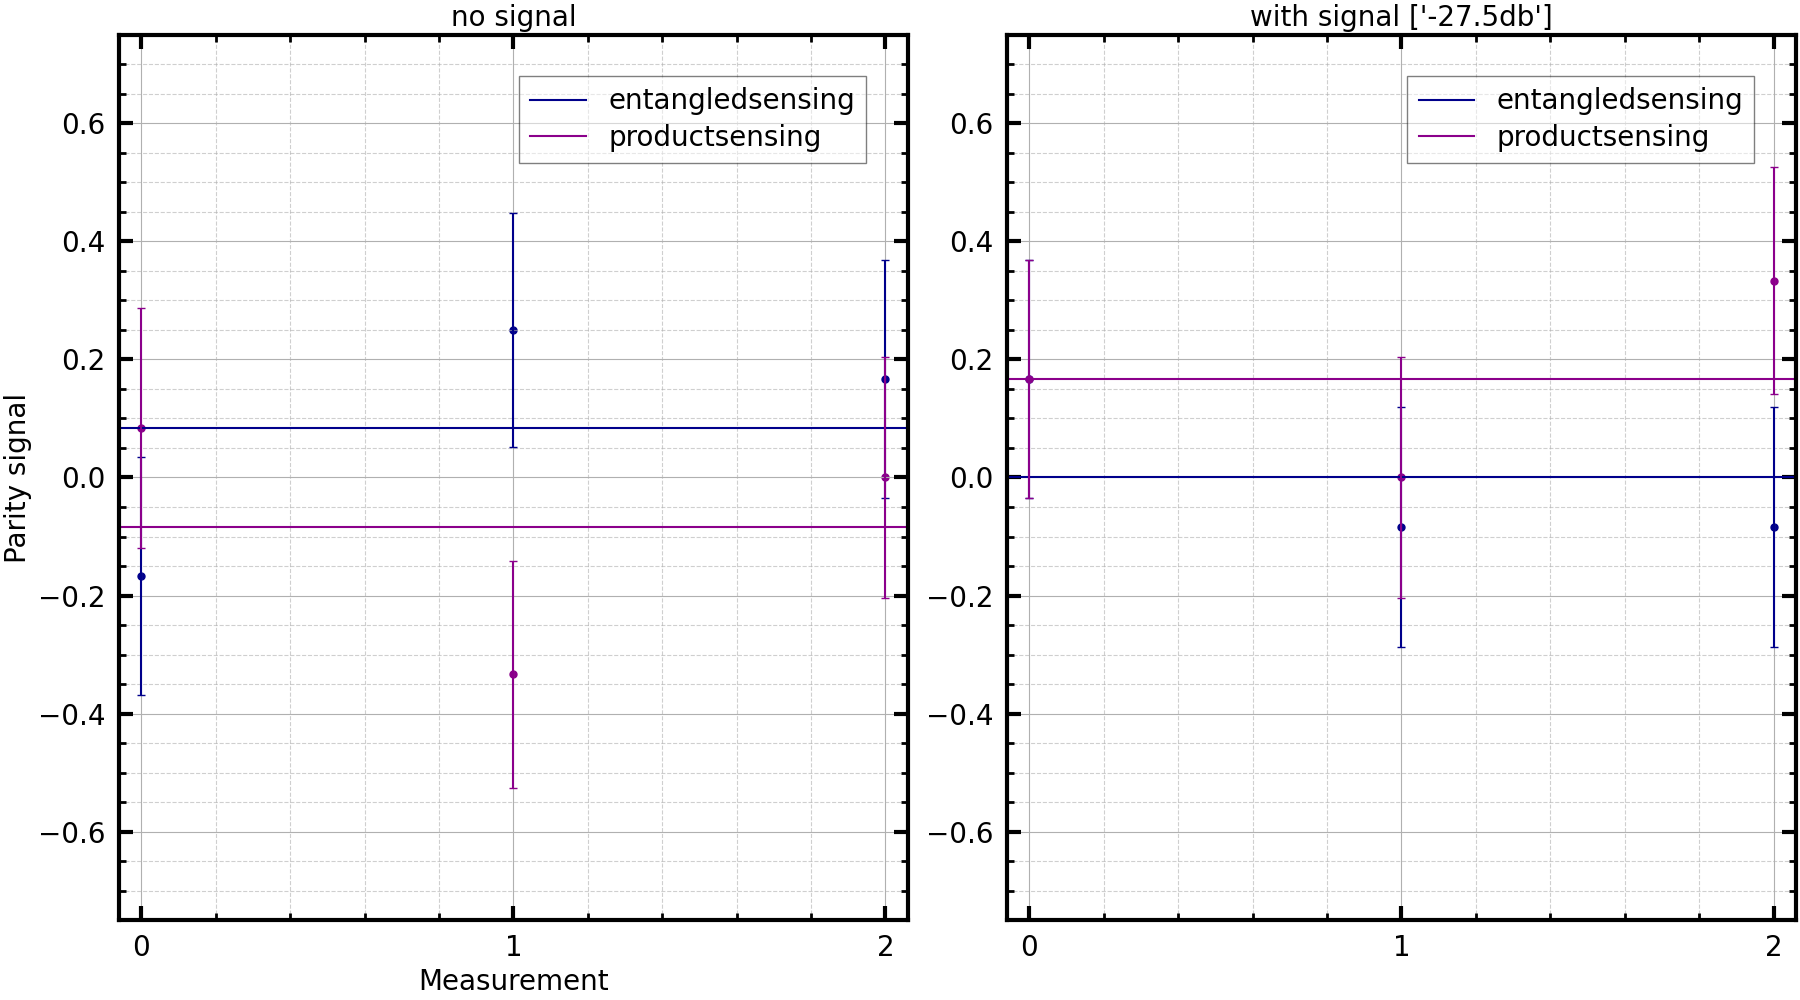
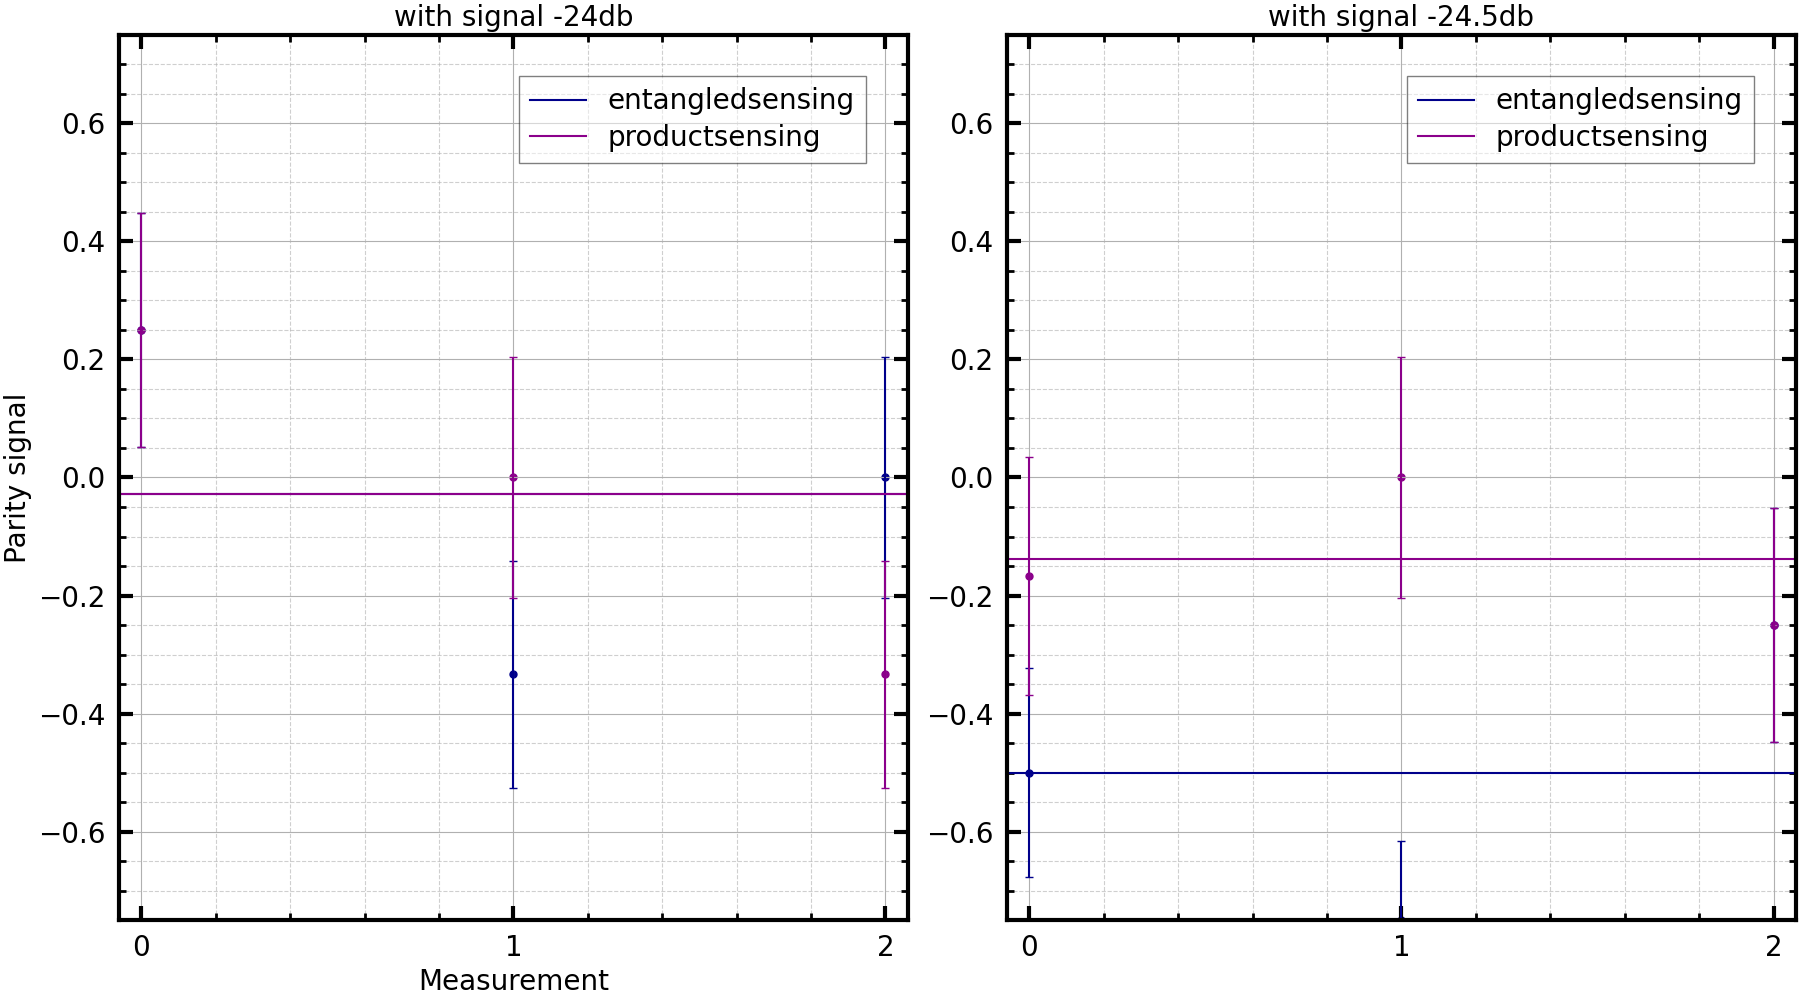
Added third example, introduced a custom base signal (instead of nostark) to detect changes on.

diff --git a/plots/oxford_plot/oxford_plot.py b/plots/oxford_plot/oxford_plot.py
@@ -14,15 +14,20 @@ observable = qt.tensor([qt.sigmaz()]*3)
 
 ##=======##
 #Example 1
-# signals = ['-25.5db']#'-25.5db'
-# groups = 3
-# point_index = 19 #Sit at phase 0.51525424
+#signals = ['nosignal','-25.5db']#'-25.5db'
+#groups = 3
+#point_index = 19 #Sit at phase 0.51525424
 
 ##=======##
 #Example 2
-signals = ['-27.5db']
+# signals = ['nosignal', '-27.5db']
+# groups = 3
+# point_index = 19 #Sit at phase 0.51525424
+
+#Example 3
+signals = ['-24db', '-24.5db']
 groups = 3
-point_index = 19 #Sit at phase 0.51525424
+point_index = 29 #Sit at phase 0.786441
 
 ##------------------READ PARITY--------------##
 
@@ -50,25 +55,20 @@ for power in power_enumerator.keys():
 
 ##------------------PLOT SIGNAL--------------##
 
-pt = PlotTemplate((1, 2))
+pt = PlotTemplate((1, len(signals)))
 ax, fig = pt.generate_figure(fig_ret=True)
 
-for n, power in enumerate(power_enumerator.keys()):
+for n, power in enumerate(signals):
     for m, setting in enumerate(['entangledsensing', 'productsensing']):#setting_enumerator.keys(), ['entangledsensing']
-        if power not in signals and power != 'nosignal':
-            continue
-        if n == 0:
-            _ax = ax[0]
-        else:
-            _ax = ax[1]
+        _ax = ax[n]
         pt.plot(range(groups), parity[:, power_enumerator[power], setting_enumerator[setting], point_index], _ax, errors = dparity[:, power_enumerator[power], setting_enumerator[setting], point_index], colour_index = m, plottype = 'scatter')
         _ax.axhline(np.mean(parity[:, power_enumerator[power], setting_enumerator[setting], point_index]), color = pt.colours[m], label = setting)
         _ax.set_ylim((-0.75, 0.75))
         _ax.legend()
         _ax.set_xticks(range(groups))
 
-ax[0].set_title('no signal')
-ax[1].set_title(f'with signal {signals}')
+        _ax.set_title('no signal' if power == "nosignal" else f'with signal {power}')
+
 ax[0].set_ylabel('Parity signal')
 ax[0].set_xlabel('Measurement')
 fig.savefig('plots/oxford_plot/oxfordplotexample2.png')
